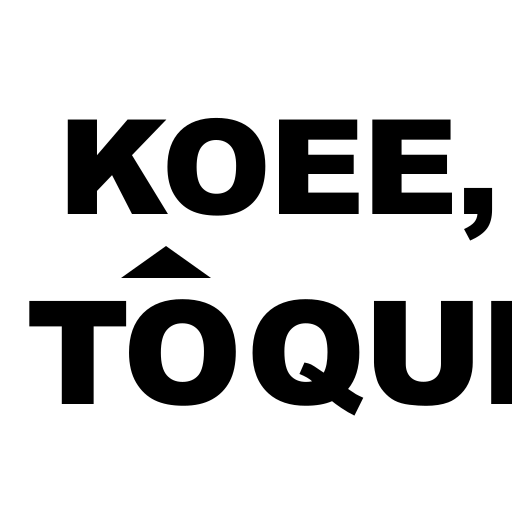
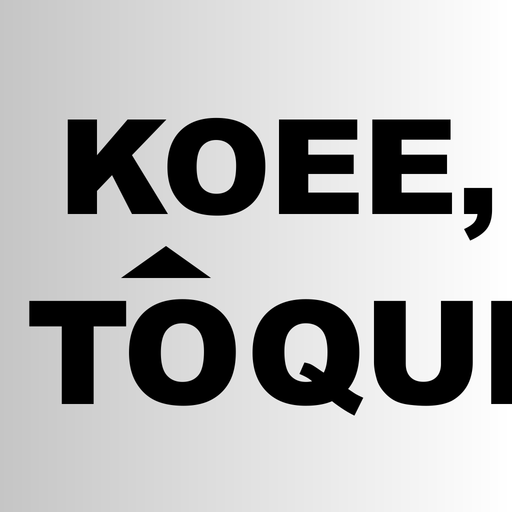
v1.7.3 fix(FaviconPNG): Usa DIRETAMENTE PNG como fonte (nada de SVG nos binarios). Gradiente prata favicon_2 enviado. Cache-bust v173.

diff --git a/index.html b/index.html
@@ -7,20 +7,20 @@
     <meta name="description" content="tôquebrado — Koee! Controle pessoal inteligente: receitas, despesas, diárias, cartões, insights e relatórios." />
     <meta name="theme-color" content="#0B1020">
 
-    <!-- FAVICONS (ICO → PNG → SVG) + CACHE BUST v1.7.2 (TODOS tamanhos = MARCA COMPLETA KOEE TÔQUEBRADO 2 linhas, sem monograma) -->
-    <link rel="icon" type="image/x-icon" sizes="16x16 32x32 48x48" href="/favicon.ico?v=172">
-    <link rel="shortcut icon" href="/favicon.ico?v=172">
-    <link rel="icon" type="image/png" sizes="64x64" href="/favicon.png?v=172">
-    <link rel="icon" type="image/svg+xml" sizes="any" href="/favicon.svg?v=172">
+    <!-- FAVICONS (ICO → PNG → SVG) + CACHE BUST v1.7.3 (100% FONTE PNG - gradiente prata favicon_2 enviado) -->
+    <link rel="icon" type="image/x-icon" sizes="16x16 32x32 48x48" href="/favicon.ico?v=173">
+    <link rel="shortcut icon" href="/favicon.ico?v=173">
+    <link rel="icon" type="image/png" sizes="64x64" href="/favicon.png?v=173">
+    <link rel="icon" type="image/svg+xml" sizes="any" href="/favicon.svg?v=173">
 
     <!-- iOS / iPadOS Home Screen -->
-    <link rel="apple-touch-icon" sizes="180x180" href="/apple-touch-icon.png?v=172">
+    <link rel="apple-touch-icon" sizes="180x180" href="/apple-touch-icon.png?v=173">
     <meta name="apple-mobile-web-app-capable" content="yes">
     <meta name="apple-mobile-web-app-status-bar-style" content="black-translucent">
     <meta name="apple-mobile-web-app-title" content="tôquebrado">
 
     <!-- PWA Android -->
-    <link rel="manifest" href="/manifest.json?v=172">
+    <link rel="manifest" href="/manifest.json?v=173">
   </head>
   <body>
     <div id="root"></div>
